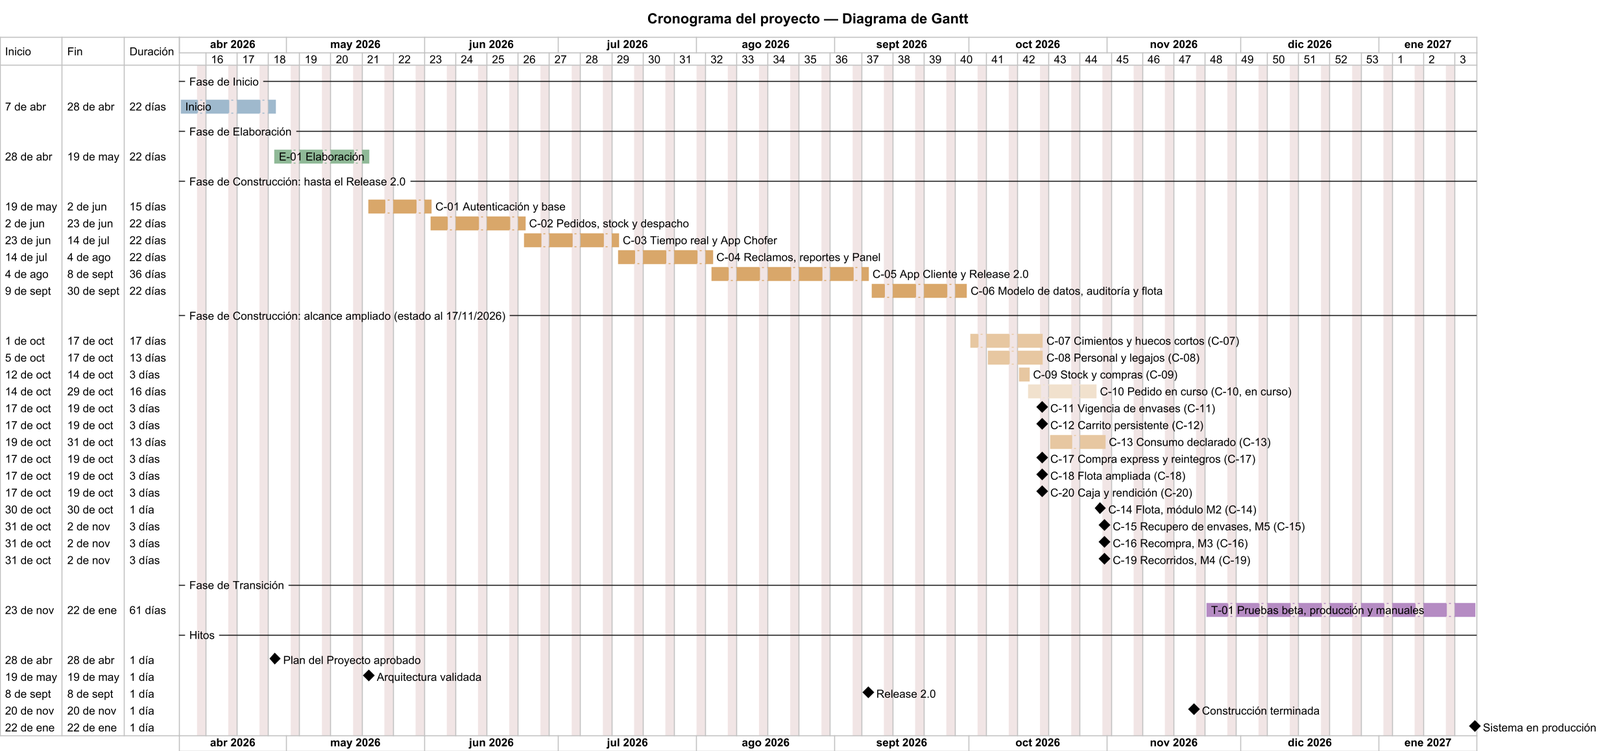
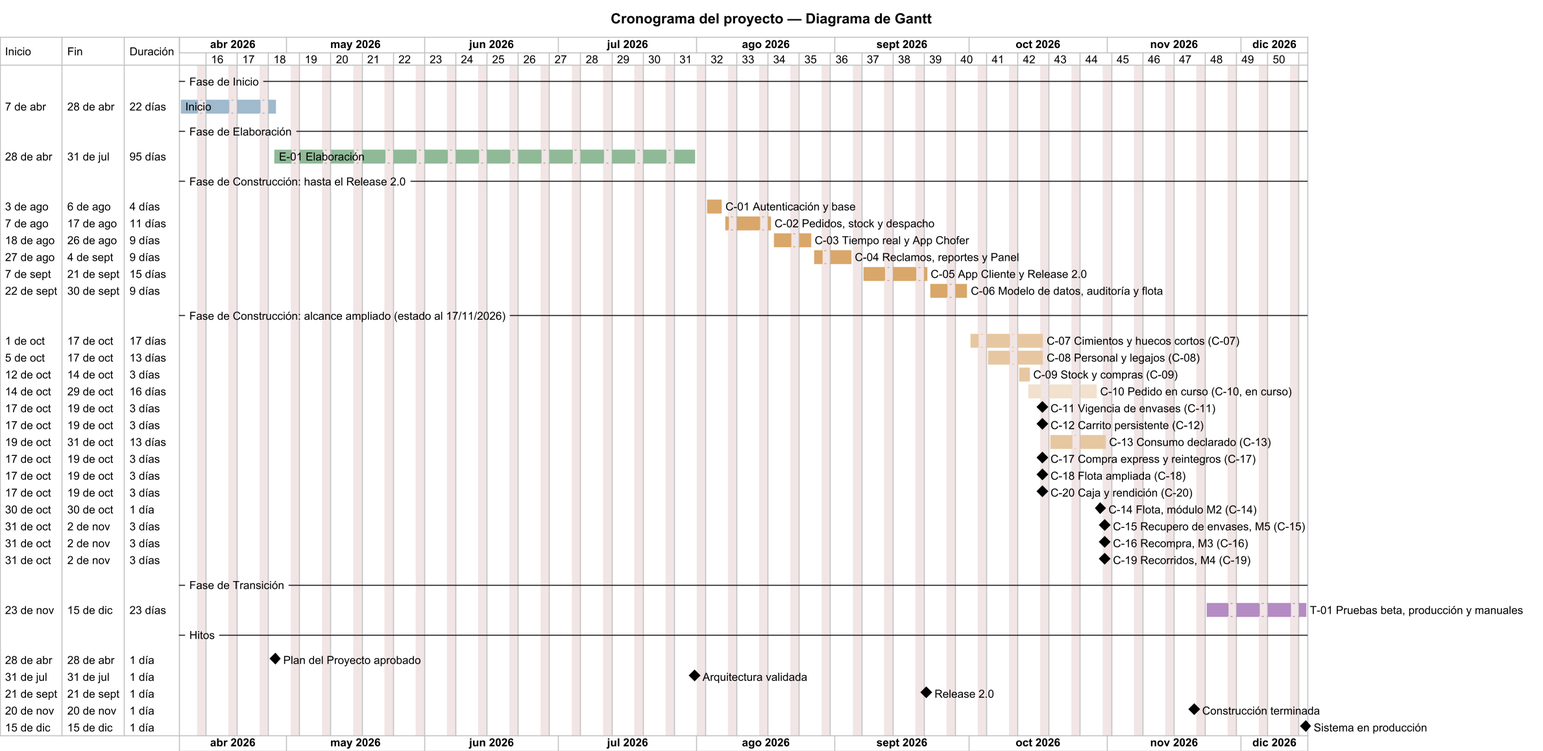
docs(catedra): 📝 fechas de las fases ajustadas al desarrollo real

diff --git a/documentos/0-Plan_Del_Proyecto.md b/documentos/0-Plan_Del_Proyecto.md
@@ -83,6 +83,7 @@
 | 29 | 2026-11-02 | Egreso del chofer con una rendición pendiente construido (CU-181): el caso pasa a «Implementado» y sale de las mejoras diferidas a Trabajo futuro; quedan CU-180 y CU-013. | Nahuel Wagner |
 | 30 | 2026-11-02 | Choferes por terminar su entrega admitidos en la asignación automática (CU-013): el caso pasa a «Implementado» y sale de las mejoras diferidas a Trabajo futuro; la distancia de «por terminar» se configura en CU-171. Queda sólo CU-180. | Nahuel Wagner |
 | 31 | 2026-11-17 | Estado al 17/11/2026 y cambios respecto de la propuesta. Los módulos inteligentes M2 a M5 (CU-105 a CU-108) y la recompra del cliente (CU-145 y CU-146) se construyeron el 30 y el 31/10/2026 y pasan a «Implementado», y el estado de la documentación en el listado de empleados (CU-180), el 03/11/2026. C-13, C-14, C-15, C-16 y C-19 quedan cerradas con sus fechas reales; C-10 sigue en curso con el tiempo estimado de llegada (CU-017), que hoy calcula la aplicación del cliente, y la resolución de la dirección en el servidor (CU-116 y CU-118), que hoy hace el dispositivo. CU-336 queda con funcionalidad pendiente: el cambio de correo sólo se ofrece en el panel. Los casos de las comisiones (CU-049, CU-240 a CU-244, CU-333 a CU-335 y CU-347) figuran como retirados del alcance, como en el Documento 1. Cambios respecto de la propuesta: (a) la interfaz del sistema es REST, documentada con OpenAPI, más WebSocket para el tiempo real, y no se usó GraphQL: las pantallas consumen operaciones puntuales y REST con su documentación OpenAPI alcanzaba, sin sumar otra tecnología al proyecto; (b) la facturación electrónica (AFIP/ARCA, Facturante) queda fuera de esta etapa: la emisión de comprobantes fiscales se deja para una etapa posterior, como la propuesta ya preveía para la etapa final. | Nahuel Wagner |
+| 32 | 2026-11-17 | Fechas de las fases ajustadas al desarrollo real: Elaboración hasta el 31/07/2026, Construcción desde el 01/08/2026 y Transición hasta el 15/12/2026. | Nahuel Wagner |
 
 ---
 
@@ -106,9 +107,9 @@ El desarrollo se lleva a cabo en las cuatro fases del Proceso Unificado, con una
 | Fase | Nro. Iteraciones | Duración | Período |
 |------|:---------------:|:--------:|---------|
 | Fase de Inicio | 0 | 3 semanas | 07/04/2026 – 28/04/2026 |
-| Fase de Elaboración | 1 (E-01) | 3 semanas | 28/04/2026 – 19/05/2026 |
-| Fase de Construcción | 20 (C-01 a C-20) | 26 semanas | 19/05/2026 – 20/11/2026 |
-| Fase de Transición | 1 (T-01) | 9 semanas | 23/11/2026 – 22/01/2027 |
+| Fase de Elaboración | 1 (E-01) | 13 semanas | 28/04/2026 – 31/07/2026 |
+| Fase de Construcción | 20 (C-01 a C-20) | 16 semanas | 01/08/2026 – 20/11/2026 |
+| Fase de Transición | 1 (T-01) | 3 semanas | 23/11/2026 – 15/12/2026 |
 
 La Fase de Construcción reúne las iteraciones C-01 a C-05, que llevaron al Release 2.0, y las iteraciones C-06 a C-20, que construyen el alcance ampliado. Estas últimas se superponen en parte, porque el trabajo avanza en carriles que tocan módulos distintos del sistema; todas terminan el 20/11/2026, antes de que empiece la Fase de Transición. Cada iteración desde C-07 construye un paquete de casos de uso; la sección 4 da la correspondencia.
 
@@ -121,15 +122,15 @@ Los hitos que marcan el final de cada fase se describen en la siguiente tabla.
 | Fase | Descripción | Hito |
 |------|-------------|------|
 | Fase de Inicio | Identificación del escenario real (distribuidor de gas con operación telefónica y sin trazabilidad), relevamiento de necesidades con el cliente, identificación de actores y casos de uso principales, redacción de la Propuesta de Proyecto y presentación del Plan del Proyecto. | Plan del Proyecto aprobado por el docente (28/04/2026). |
-| Fase de Elaboración | Análisis de los casos de uso arquitectónicamente más críticos (CU-001, CU-005, CU-013, CU-017, CU-020); definición y validación de la arquitectura técnica (NestJS, Flutter, React, PostgreSQL, Redis, Firebase Auth); Modelo Conceptual preliminar; prototipo de arquitectura que valida el despacho automático con Redis GEORADIUS. | Arquitectura validada con el cliente y prototipo funcional demostrado (19/05/2026). |
-| Fase de Construcción | C-01: autenticación con Firebase Auth, roles y base del backend. C-02: pedidos con reserva atómica de stock y despacho automático por geolocalización. C-03: seguimiento GPS en tiempo real y App Chofer. C-04: reclamos, reportes, tablero, vehículos, notificaciones y Panel Admin. C-05: App Cliente completa. C-06: alcance ampliado, con el modelo de datos, el registro de auditoría y el mantenimiento de la flota. C-07 a C-20: construcción de los paquetes de casos de uso planificados: cimientos y huecos cortos (C-07), personal y legajos (C-08), stock y compras (C-09), pedido en curso (C-10), vigencia de envases (C-11), carrito persistente (C-12), consumo declarado (C-13), módulo M2 de flota (C-14), módulo M5 de recupero de envases (C-15), módulo M3 de recompra (C-16), compra express y reintegros (C-17), flota ampliada (C-18), módulo M4 de recorridos (C-19) y caja y rendición (C-20). | Release 2.0 al cierre de C-05 (08/09/2026); al 17/11/2026 están cerradas todas las iteraciones de construcción salvo C-10, que sigue en curso con el tiempo estimado de llegada (CU-017) y la resolución de la dirección en el servidor (CU-116 y CU-118); la construcción termina el 20/11/2026, antes de empezar la Transición. |
-| Fase de Transición | Pruebas de aceptación con usuarios reales (choferes y clientes del distribuidor), corrección de los defectos detectados, despliegue en producción (Docker Compose en un servidor propio) y entrega de la documentación (manuales de usuario y guías de despliegue). | Sistema en producción, usuarios capacitados y documentación entregada (22/01/2027). |
+| Fase de Elaboración | Análisis de los casos de uso arquitectónicamente más críticos (CU-001, CU-005, CU-013, CU-017, CU-020); definición y validación de la arquitectura técnica (NestJS, Flutter, React, PostgreSQL, Redis, Firebase Auth); Modelo Conceptual preliminar; prototipo de arquitectura que valida el despacho automático con Redis GEORADIUS. | Arquitectura validada con el cliente y prototipo funcional demostrado (31/07/2026). |
+| Fase de Construcción | C-01: autenticación con Firebase Auth, roles y base del backend. C-02: pedidos con reserva atómica de stock y despacho automático por geolocalización. C-03: seguimiento GPS en tiempo real y App Chofer. C-04: reclamos, reportes, tablero, vehículos, notificaciones y Panel Admin. C-05: App Cliente completa. C-06: alcance ampliado, con el modelo de datos, el registro de auditoría y el mantenimiento de la flota. C-07 a C-20: construcción de los paquetes de casos de uso planificados: cimientos y huecos cortos (C-07), personal y legajos (C-08), stock y compras (C-09), pedido en curso (C-10), vigencia de envases (C-11), carrito persistente (C-12), consumo declarado (C-13), módulo M2 de flota (C-14), módulo M5 de recupero de envases (C-15), módulo M3 de recompra (C-16), compra express y reintegros (C-17), flota ampliada (C-18), módulo M4 de recorridos (C-19) y caja y rendición (C-20). | Release 2.0 al cierre de C-05 (21/09/2026); al 17/11/2026 están cerradas todas las iteraciones de construcción salvo C-10, que sigue en curso con el tiempo estimado de llegada (CU-017) y la resolución de la dirección en el servidor (CU-116 y CU-118); la construcción termina el 20/11/2026, antes de empezar la Transición. |
+| Fase de Transición | Pruebas de aceptación con usuarios reales (choferes y clientes del distribuidor), corrección de los defectos detectados, despliegue en producción (Docker Compose en un servidor propio) y entrega de la documentación (manuales de usuario y guías de despliegue). | Sistema en producción, usuarios capacitados y documentación entregada (15/12/2026). |
 
 ---
 
 ## 4. Calendario del Proyecto — Diagrama de Gantt
 
-El cronograma abarca **41 semanas**, desde el **07/04/2026** hasta el **22/01/2027**. Es el único calendario del proyecto: el documento 0.1 (Planificación de Iteraciones) usa las mismas fechas para cada iteración. Los días sábado y domingo no se cuentan como laborables. Las fechas de lo ya construido son las del historial de los repositorios del sistema; las de lo pendiente son estimaciones al 17/11/2026 que respetan las dependencias entre iteraciones.
+El cronograma abarca **36 semanas**, desde el **07/04/2026** hasta el **15/12/2026**. Es el único calendario del proyecto: el documento 0.1 (Planificación de Iteraciones) usa las mismas fechas para cada iteración. Los días sábado y domingo no se cuentan como laborables. Las fechas de lo ya construido son las del historial de los repositorios del sistema; las de lo pendiente son estimaciones al 17/11/2026 que respetan las dependencias entre iteraciones.
 
 ### Cronograma (Diagrama de Gantt)
 
@@ -138,18 +139,18 @@ El cronograma abarca **41 semanas**, desde el **07/04/2026** hasta el **22/01/20
 **Figura 1 — Cronograma del proyecto: diagrama de Gantt**
 
 
-Las barras de color pleno son las fases y las iteraciones de Construcción hasta C-06; las iteraciones C-07 a C-20 se dibujan en un tono más claro, y C-10, que sigue en curso, en el más claro de todos. Las iteraciones construidas en un solo día (17/10/2026: C-11, C-12, C-17, C-18 y C-20; 30/10/2026: C-14; 31/10/2026: C-15, C-16 y C-19) se dibujan como un rombo, porque una barra de un día, o de un sábado, no tendría ancho. Los rombos son los hitos: Plan del Proyecto aprobado (28/04/2026), arquitectura validada (19/05/2026), Release 2.0 (08/09/2026), construcción terminada (20/11/2026) y sistema en producción (22/01/2027). La columna Duración cuenta días corridos.
+Las barras de color pleno son las fases y las iteraciones de Construcción hasta C-06; las iteraciones C-07 a C-20 se dibujan en un tono más claro, y C-10, que sigue en curso, en el más claro de todos. Las iteraciones construidas en un solo día (17/10/2026: C-11, C-12, C-17, C-18 y C-20; 30/10/2026: C-14; 31/10/2026: C-15, C-16 y C-19) se dibujan como un rombo, porque una barra de un día, o de un sábado, no tendría ancho. Los rombos son los hitos: Plan del Proyecto aprobado (28/04/2026), arquitectura validada (31/07/2026), Release 2.0 (21/09/2026), construcción terminada (20/11/2026) y sistema en producción (15/12/2026). La columna Duración cuenta días corridos.
 
 | Fase | Iteración | Paquete de casos de uso | Desde | Hasta | Duración (días corridos) | Estado al 17/11/2026 | Hito de cierre |
 |------|:---------:|:-----------------------:|:-----:|:-----:|:--------:|---|----------------|
 | Inicio | — | — | 07/04/2026 | 28/04/2026 | 21 días (3 semanas) | Cerrada | Plan del Proyecto aprobado |
-| Elaboración | E-01 | — | 28/04/2026 | 19/05/2026 | 21 días (3 semanas) | Cerrada | Arquitectura validada y prototipo demostrado |
-| Construcción | C-01 | — | 19/05/2026 | 02/06/2026 | 14 días (2 semanas) | Cerrada | Autenticación, roles y base del backend |
-| Construcción | C-02 | — | 02/06/2026 | 23/06/2026 | 21 días (3 semanas) | Cerrada | Pedidos, stock atómico y despacho automático |
-| Construcción | C-03 | — | 23/06/2026 | 14/07/2026 | 21 días (3 semanas) | Cerrada | Seguimiento en tiempo real y App Chofer |
-| Construcción | C-04 | — | 14/07/2026 | 04/08/2026 | 21 días (3 semanas) | Cerrada | Reclamos, reportes, tablero y Panel |
-| Construcción | C-05 | — | 04/08/2026 | 08/09/2026 | 35 días (5 semanas) | Cerrada | App Cliente y Release 2.0 |
-| Construcción | C-06 | — | 09/09/2026 | 30/09/2026 | 21 días (3 semanas) | Cerrada | Modelo de datos del alcance ampliado, registro de auditoría y mantenimiento de la flota |
+| Elaboración | E-01 | — | 28/04/2026 | 31/07/2026 | 94 días (13 semanas) | Cerrada | Arquitectura validada y prototipo demostrado |
+| Construcción | C-01 | — | 03/08/2026 | 06/08/2026 | 3 días (4 jornadas) | Cerrada | Autenticación, roles y base del backend |
+| Construcción | C-02 | — | 07/08/2026 | 17/08/2026 | 10 días (7 jornadas) | Cerrada | Pedidos, stock atómico y despacho automático |
+| Construcción | C-03 | — | 18/08/2026 | 26/08/2026 | 8 días (7 jornadas) | Cerrada | Seguimiento en tiempo real y App Chofer |
+| Construcción | C-04 | — | 27/08/2026 | 04/09/2026 | 8 días (7 jornadas) | Cerrada | Reclamos, reportes, tablero y Panel |
+| Construcción | C-05 | — | 07/09/2026 | 21/09/2026 | 14 días (11 jornadas) | Cerrada | App Cliente y Release 2.0 |
+| Construcción | C-06 | — | 22/09/2026 | 30/09/2026 | 8 días (7 jornadas) | Cerrada | Modelo de datos del alcance ampliado, registro de auditoría y mantenimiento de la flota |
 | Construcción | C-07 | C-07 | 01/10/2026 | 17/10/2026 | 16 días | Cerrada: construida | Cimientos y huecos cortos |
 | Construcción | C-08 | C-08 | 04/10/2026 | 17/10/2026 | 13 días | Cerrada: construida; el estado de la documentación en el listado de empleados (CU-180) se completó el 03/11/2026 | Personal y legajos |
 | Construcción | C-09 | C-09 | 11/10/2026 | 14/10/2026 | 3 días | Cerrada | Stock, compras y carga del camión |
@@ -164,7 +165,7 @@ Las barras de color pleno son las fases y las iteraciones de Construcción hasta
 | Construcción | C-18 | C-18 | 17/10/2026 | 17/10/2026 | 1 día | Cerrada: construida | Flota ampliada |
 | Construcción | C-19 | C-19 | 31/10/2026 | 31/10/2026 | 1 día | Cerrada: construida antes de lo estimado (20/11/2026), sin el recorte previsto | Módulo M4: agrupación por recorrido |
 | Construcción | C-20 | C-20 | 17/10/2026 | 17/10/2026 | 1 día | Cerrada: construida | Caja y rendición |
-| Transición | T-01 | — | 23/11/2026 | 22/01/2027 | 61 días (9 semanas) | Próxima: desde el 23/11/2026 | Sistema en producción y usuarios capacitados |
+| Transición | T-01 | — | 23/11/2026 | 15/12/2026 | 22 días (3 semanas) | Próxima: desde el 23/11/2026 | Sistema en producción y usuarios capacitados |
 
 ### Plan de construcción de los casos de uso planificados
 

diff --git a/documentos/0.1-Planificacion_Iteraciones.md b/documentos/0.1-Planificacion_Iteraciones.md
@@ -43,6 +43,7 @@
 | 26 | 2026-11-02 | Egreso del chofer con una rendición pendiente construido (CU-181): C-08 queda construida salvo el estado de la documentación en el listado (CU-180); CU-181 pasa a «Implementado». | Nahuel Wagner |
 | 27 | 2026-11-02 | Choferes por terminar su entrega admitidos en la asignación automática (CU-013): el caso pasa a «Implementado» y sale de Trabajo futuro; el parámetro se configura en CU-171. | Nahuel Wagner |
 | 28 | 2026-11-17 | Estado al 17/11/2026: C-13 cerrada el 31/10/2026 (CU-145 y CU-146), C-14 cerrada en fecha el 30/10/2026 (módulo M2) y C-15, C-16 y C-19 cerradas antes de lo estimado, el 31/10/2026 (módulos M5, M3 y M4), sin el recorte previsto; C-08 completa con el estado de la documentación en el listado de empleados (CU-180, 03/11/2026); C-10 sigue en curso con el tiempo estimado de llegada (CU-017) y la resolución de la dirección en el servidor (CU-116 y CU-118); T-01 es la próxima, desde el 23/11/2026. | Nahuel Wagner |
+| 29 | 2026-11-17 | Fechas de las fases ajustadas al desarrollo real: Elaboración hasta el 31/07/2026, Construcción desde el 01/08/2026 y Transición hasta el 15/12/2026. | Nahuel Wagner |
 
 ---
 
@@ -97,13 +98,13 @@ Criterios propios de cada tipo de artefacto:
 | Código | Fase | Foco principal | Período | Estado al 17/11/2026 |
 |--------|------|----------------|:-------:|---|
 | [I-00](#fase-de-inicio) | Inicio | Relevamiento, propuesta y plan del proyecto | 07/04/2026 – 28/04/2026 | Cerrada |
-| [E-01](#iteración-e-01--elaboración) | Elaboración | Arquitectura + CU críticos + modelo conceptual | 28/04/2026 – 19/05/2026 | Cerrada |
-| [C-01](#iteración-c-01--construcción-1) | Construcción | Auth + Usuarios + base backend | 19/05/2026 – 02/06/2026 | Cerrada |
-| [C-02](#iteración-c-02--construcción-2) | Construcción | Pedidos + reserva stock + despacho automático | 02/06/2026 – 23/06/2026 | Cerrada |
-| [C-03](#iteración-c-03--construcción-3) | Construcción | WebSockets + Redis + App Chofer | 23/06/2026 – 14/07/2026 | Cerrada |
-| [C-04](#iteración-c-04--construcción-4) | Construcción | Reclamos + Reportes + Panel Admin | 14/07/2026 – 04/08/2026 | Cerrada |
-| [C-05](#iteración-c-05--construcción-5) | Construcción | App Cliente + Release 2.0 | 04/08/2026 – 08/09/2026 | Cerrada |
-| [C-06](#iteración-c-06--alcance-ampliado-modelo-de-datos-auditoría-y-flota) | Construcción | Modelo de datos del alcance ampliado, auditoría y mantenimiento de la flota | 09/09/2026 – 30/09/2026 | Cerrada |
+| [E-01](#iteración-e-01--elaboración) | Elaboración | Arquitectura + CU críticos + modelo conceptual | 28/04/2026 – 31/07/2026 | Cerrada |
+| [C-01](#iteración-c-01--construcción-1) | Construcción | Auth + Usuarios + base backend | 03/08/2026 – 06/08/2026 | Cerrada |
+| [C-02](#iteración-c-02--construcción-2) | Construcción | Pedidos + reserva stock + despacho automático | 07/08/2026 – 17/08/2026 | Cerrada |
+| [C-03](#iteración-c-03--construcción-3) | Construcción | WebSockets + Redis + App Chofer | 18/08/2026 – 26/08/2026 | Cerrada |
+| [C-04](#iteración-c-04--construcción-4) | Construcción | Reclamos + Reportes + Panel Admin | 27/08/2026 – 04/09/2026 | Cerrada |
+| [C-05](#iteración-c-05--construcción-5) | Construcción | App Cliente + Release 2.0 | 07/09/2026 – 21/09/2026 | Cerrada |
+| [C-06](#iteración-c-06--alcance-ampliado-modelo-de-datos-auditoría-y-flota) | Construcción | Modelo de datos del alcance ampliado, auditoría y mantenimiento de la flota | 22/09/2026 – 30/09/2026 | Cerrada |
 | [C-07](#iteración-c-07--cimientos-y-huecos-cortos) | Construcción | Cimientos y huecos cortos | 01/10/2026 – 17/10/2026 | Cerrada: construida (CU-043 el 07/10/2026; CU-171 y CU-173 el 15/10/2026; CU-151, CU-172, CU-268 y CU-269 el 17/10/2026) |
 | [C-08](#iteración-c-08--personal-y-legajos) | Construcción | Personal y legajos | 04/10/2026 – 17/10/2026 | Cerrada: construida (puestos y legajos desde el 04/10/2026; documentación, asistencia, licencias, tablero y habilitación laboral el 17/10/2026); el egreso con rendición pendiente (CU-181) el 02/11/2026 y el estado de la documentación en el listado de empleados (CU-180) el 03/11/2026 |
 | [C-09](#iteración-c-09--stock-y-compras) | Construcción | Stock y compras | 11/10/2026 – 14/10/2026 | Cerrada: construida |
@@ -118,7 +119,7 @@ Criterios propios de cada tipo de artefacto:
 | [C-18](#iteración-c-18--flota-ampliada) | Construcción | Flota ampliada | 17/10/2026 – 17/10/2026 | Cerrada: construida |
 | [C-19](#iteración-c-19--módulo-m4-agrupación-por-recorrido) | Construcción | Módulo M4: agrupación por recorrido | 31/10/2026 – 31/10/2026 | Cerrada: construida antes de lo estimado (CU-107), sin el recorte previsto |
 | [C-20](#iteración-c-20--caja-y-rendición) | Construcción | Caja y rendición | 17/10/2026 – 17/10/2026 | Cerrada: construida |
-| [T-01](#iteración-t-01--transición) | Transición | Pruebas beta + producción + manuales | 23/11/2026 – 22/01/2027 | Próxima: desde el 23/11/2026 |
+| [T-01](#iteración-t-01--transición) | Transición | Pruebas beta + producción + manuales | 23/11/2026 – 15/12/2026 | Próxima: desde el 23/11/2026 |
 
 Las fechas son las de la Identificación de cada iteración y las del diagrama de Gantt del Documento 0, que es el único calendario del proyecto: las fechas de lo ya construido salen del historial de los repositorios y las de lo pendiente son estimadas al 17/11/2026 y respetan las dependencias del plan. Las iteraciones C-07 a C-20 construyen los catorce paquetes de casos de uso con los que el catálogo del Documento 0 identifica el estado de cada caso; algunas se superponen porque el trabajo avanza en carriles que tocan módulos distintos del sistema. Al 17/11/2026 están cerradas todas las iteraciones de construcción salvo C-10, que sigue en curso; la construcción termina el 20/11/2026, antes del comienzo de la transición (T-01, 23/11/2026).
 
@@ -198,8 +199,8 @@ Las fechas son las de la Identificación de cada iteración y las del diagrama d
 | Código de la Iteración | E-01 |
 | Fase a la que pertenece | Elaboración |
 | Fecha de Inicio | 28/04/2026 |
-| Fecha de Cierre | 19/05/2026 |
-| Duración | 21 días corridos (3 semanas) |
+| Fecha de Cierre | 31/07/2026 |
+| Duración | 94 días corridos (13 semanas) |
 | Comentarios | Iteración enfocada en validar la arquitectura técnica y analizar los CU más riesgosos del sistema. Produce los documentos de análisis y diseño preliminares y el prototipo de arquitectura ejecutable. |
 
 ### Metas
@@ -272,9 +273,9 @@ Las fechas son las de la Identificación de cada iteración y las del diagrama d
 |-------|-------|
 | Código de la Iteración | C-01 |
 | Fase a la que pertenece | Construcción |
-| Fecha de Inicio | 19/05/2026 |
-| Fecha de Cierre | 02/06/2026 |
-| Duración | 14 días corridos (2 semanas) |
+| Fecha de Inicio | 03/08/2026 |
+| Fecha de Cierre | 06/08/2026 |
+| Duración | 3 días corridos (4 jornadas de trabajo) |
 | Comentarios | Primera iteración de construcción. Foco en la base del sistema: autenticación delegada en Firebase Auth, roles diferenciados y gestión de usuarios para los tres tipos de actor. |
 
 ### Metas
@@ -352,9 +353,9 @@ Las fechas son las de la Identificación de cada iteración y las del diagrama d
 |-------|-------|
 | Código de la Iteración | C-02 |
 | Fase a la que pertenece | Construcción |
-| Fecha de Inicio | 02/06/2026 |
-| Fecha de Cierre | 23/06/2026 |
-| Duración | 21 días corridos (3 semanas) |
+| Fecha de Inicio | 07/08/2026 |
+| Fecha de Cierre | 17/08/2026 |
+| Duración | 10 días corridos (7 jornadas de trabajo) |
 | Comentarios | Iteración central del sistema. Implementa el flujo completo de pedido: creación transaccional con reserva atómica de stock, despacho automático por proximidad y cancelación con restitución de stock. |
 
 ### Metas
@@ -430,9 +431,9 @@ Las fechas son las de la Identificación de cada iteración y las del diagrama d
 |-------|-------|
 | Código de la Iteración | C-03 |
 | Fase a la que pertenece | Construcción |
-| Fecha de Inicio | 23/06/2026 |
-| Fecha de Cierre | 14/07/2026 |
-| Duración | 21 días corridos (3 semanas) |
+| Fecha de Inicio | 18/08/2026 |
+| Fecha de Cierre | 26/08/2026 |
+| Duración | 8 días corridos (7 jornadas de trabajo) |
 | Comentarios | Iteración enfocada en la comunicación en tiempo real y en la App Chofer (Flutter). Implementa los gateways WebSocket y el flujo completo de entrega desde la perspectiva del repartidor. |
 
 ### Metas
@@ -506,9 +507,9 @@ Las fechas son las de la Identificación de cada iteración y las del diagrama d
 |-------|-------|
 | Código de la Iteración | C-04 |
 | Fase a la que pertenece | Construcción |
-| Fecha de Inicio | 14/07/2026 |
-| Fecha de Cierre | 04/08/2026 |
-| Duración | 21 días corridos (3 semanas) |
+| Fecha de Inicio | 27/08/2026 |
+| Fecha de Cierre | 04/09/2026 |
+| Duración | 8 días corridos (7 jornadas de trabajo) |
 | Comentarios | Iteración orientada a las funcionalidades administrativas: reclamos, reportes, vehículos, correos electrónicos y Panel Web (React/Vite). Completa la perspectiva del Administrador. |
 
 ### Metas
@@ -586,9 +587,9 @@ Las fechas son las de la Identificación de cada iteración y las del diagrama d
 |-------|-------|
 | Código de la Iteración | C-05 |
 | Fase a la que pertenece | Construcción |
-| Fecha de Inicio | 04/08/2026 |
-| Fecha de Cierre | 08/09/2026 |
-| Duración | 35 días corridos (5 semanas, incluye integración final) |
+| Fecha de Inicio | 07/09/2026 |
+| Fecha de Cierre | 21/09/2026 |
+| Duración | 14 días corridos (11 jornadas de trabajo, incluye integración final) |
 | Comentarios | Última iteración de construcción. Foco en la App Cliente (Flutter) y la integración end-to-end completa del sistema. Cierra con el Release 2.0. |
 
 ### Metas
@@ -674,10 +675,10 @@ Al finalizar esta iteración el sistema debe cumplir todos los criterios del Rel
 |-------|-------|
 | Código de la Iteración | C-06 |
 | Fase a la que pertenece | Construcción |
-| Fecha de Inicio | 09/09/2026 |
+| Fecha de Inicio | 22/09/2026 |
 | Fecha de Cierre | 30/09/2026 |
-| Duración | 21 días corridos (3 semanas) |
-| Comentarios | Iteración agregada al plan después de la revisión del 08/09/2026, que llevó a desglosar cada operación de los ABM en su propio caso de uso y a sumar alcance que el relevamiento no había cubierto. La especificación de los 41 casos nuevos quedó terminada antes de abrir la iteración. Prepara el terreno de las iteraciones C-07 a C-20: deja migrado el modelo de datos y construye lo que no depende de ellas. |
+| Duración | 8 días corridos (7 jornadas de trabajo) |
+| Comentarios | Iteración agregada al plan después de la revisión de la cátedra del 08/09/2026, que llevó a desglosar cada operación de los ABM en su propio caso de uso y a sumar alcance que el relevamiento no había cubierto. La especificación de los 41 casos nuevos quedó terminada antes de abrir la iteración. Prepara el terreno de las iteraciones C-07 a C-20: deja migrado el modelo de datos y construye lo que no depende de ellas. |
 
 ### Metas
 
@@ -1672,8 +1673,8 @@ Iteración de la Fase de Construcción que construye el paquete de casos de uso 
 | Código de la Iteración | T-01 |
 | Fase a la que pertenece | Transición |
 | Fecha de Inicio | 23/11/2026 |
-| Fecha de Cierre | 22/01/2027 |
-| Duración | 61 días corridos (9 semanas), después de terminada toda la construcción |
+| Fecha de Cierre | 15/12/2026 |
+| Duración | 22 días corridos (3 semanas), después de terminada toda la construcción |
 | Comentarios | Única iteración de la Fase de Transición. Se realizan las pruebas de aceptación con usuarios reales (choferes y clientes del distribuidor), se corrigen los defectos detectados y se despliega el sistema en el entorno de producción del cliente. |
 
 ### Metas
